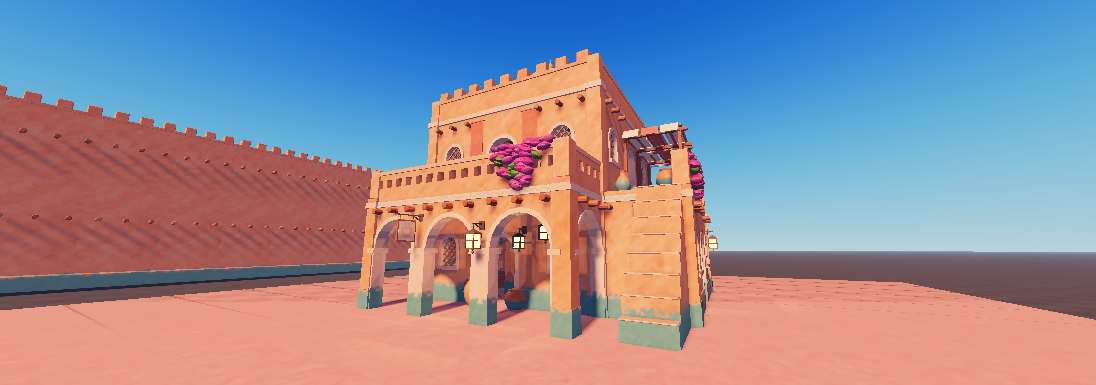
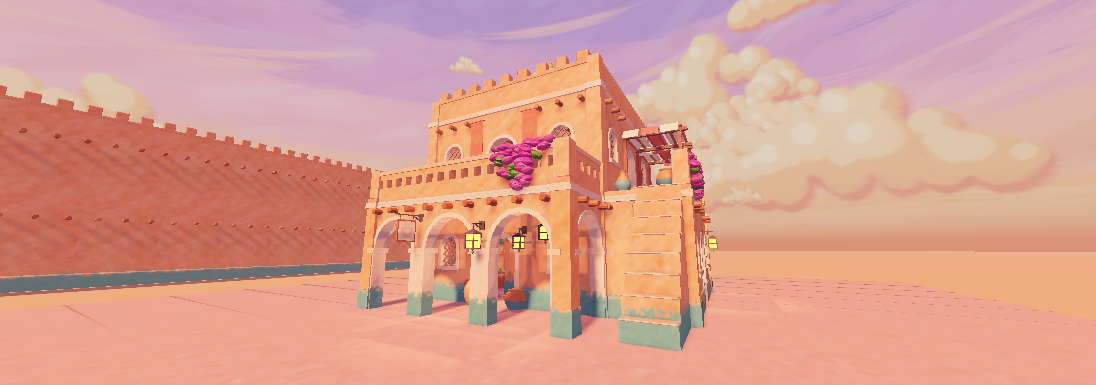
Painted sky: the concept's violet sky with peach clouds, six seamless faces
One painting of the whole sphere (10,246 strokes), cut into the sky box. Roblox's face
orientations were found with labelled test faces and are recorded in assets/sky.py.

diff --git a/desert-fps/assets/sky.py b/desert-fps/assets/sky.py
@@ -26,14 +26,15 @@ PPD = H / 180.0                # pixels per degree
 SEED = 23
 
 # Which way each face of Roblox's sky box looks, and where the right and top edges of its picture point.
-# Worked out with `python sky.py test` in Studio; see build/08_sky.luau.
+# Found in Studio with `python sky.py test` (labelled faces, looked at along every axis): Roblox's "Rt" face
+# is on the -X side and "Lf" on +X, and the top and bottom faces lie a quarter turn from the usual layout.
 FACES = {
     "Ft": ((0, 0, -1), (1, 0, 0), (0, 1, 0)),
     "Bk": ((0, 0, 1), (-1, 0, 0), (0, 1, 0)),
-    "Rt": ((1, 0, 0), (0, 0, 1), (0, 1, 0)),
-    "Lf": ((-1, 0, 0), (0, 0, -1), (0, 1, 0)),
-    "Up": ((0, 1, 0), (1, 0, 0), (0, 0, 1)),
-    "Dn": ((0, -1, 0), (1, 0, 0), (0, 0, -1)),
+    "Rt": ((-1, 0, 0), (0, 0, -1), (0, 1, 0)),
+    "Lf": ((1, 0, 0), (0, 0, 1), (0, 1, 0)),
+    "Up": ((0, 1, 0), (0, 0, -1), (1, 0, 0)),
+    "Dn": ((0, -1, 0), (0, 0, -1), (-1, 0, 0)),
 }
 
 VIOLET, MAUVE, ROSE = (138, 129, 198), (176, 146, 206), (214, 158, 200)

diff --git a/desert-fps/HANDOFF.md b/desert-fps/HANDOFF.md
@@ -257,9 +257,11 @@ Direction, confirmed by the owner ("Yes, pilot building"): rebuild as one compac
 - **Lamps and low graphics.** The playtest client here runs on automatic (low) graphics, where lamps cast no shadows and shine through walls: at the first brightness the rooms washed out to white. Lamp range is set for that case (`BuildingConfig.luau`): a lamp lights its own cell and little more.
 - **Indoor light (the owner: "something seems off... mainly interior lighting").** The rooms were purple and flat. Cause: Roblox's shade light leaks through walls and roofs one stud thick, so a room takes `Lighting.OutdoorAmbient` (violet), hardly `Lighting.Ambient`. Tested by setting OutdoorAmbient to orange: every room turned orange. Fix: the lamps do the warming (warmer and stronger, golden glass, four more lanterns in the atrium and a soft fill light under the dome), and OutdoorAmbient is a rosier violet. Target was the owner's interior concept, `reference/zones/tea-house.webp`: golden-pink rooms. Before and after: `assets/studio/teahouse-gallery-light-before-after.png`.
 - **Light outside.** `build/03_lighting.luau` now also turns the bare ground to sand (it was the template's dark checkerboard), sets a peach-to-violet haze, switches the depth-of-field blur off and keeps bloom low enough that lamps do not throw a star off the rifle.
-- **The sky is painted but not in the game.** `assets/sky.py` paints the concept's violet sky with peach clouds stroke by stroke and cuts it into six box faces; `python sky.py test` makes labelled faces for finding out which way Roblox turns each one. Neither has been run to the end or uploaded: the owner stopped that work to have the indoor light fixed first. Studio still shows Roblox's blue sky.
+- **The sky is painted** (the owner said the indoor light was "much better", then this was finished). `assets/sky.py` paints the concept's violet sky with peach clouds stroke by stroke, 10,246 strokes on one flat picture of the whole sphere, and cuts it into six box faces; `build/08_sky.luau` sets them. Checked in Studio across the box edges from two opposite corners: no seams.
+- **How Roblox turns the sky box** (found with `python sky.py test`, six labelled faces looked at along every axis): `SkyboxFt` looks along -Z and `SkyboxBk` along +Z, both upright; `SkyboxRt` is on the **-X** side and `SkyboxLf` on **+X**; on `SkyboxUp` the picture's right edge points to -Z and its top edge to +X; on `SkyboxDn` the right edge points to -Z and the top edge to -X. The table is in `sky.py`.
+- Unused uploads from that test, safe to archive: images 107254333365792, 112165538698504, 113010172024457, 88017870290511, 108595521409435, 82504491675380.
 - **The building is turned to face the afternoon sun.** A front in its own shade reads as dark terracotta. This will matter when the town is laid out.
-- **Not done:** the sky (see above), no background, no sandstorm. What hangs on a wall (lantern, banner, shelf, sign) stays in the air when the wall behind it is shot down. Frame rate is still unmeasured (this Studio session runs at 14 frames a second regardless). No door leaves in the doorways, no palm trees, no awnings on this building. The owner has not seen it in person yet.
+- **Not done:** no painted background behind the wall (far towns, hills), no sandstorm. What hangs on a wall (lantern, banner, shelf, sign) stays in the air when the wall behind it is shot down. Frame rate is still unmeasured (this Studio session runs at 14 frames a second regardless). No door leaves in the doorways, no palm trees, no awnings on this building. The owner has not seen it in person yet.
 - The old town (`Workspace.Map`) is still there, untouched, until the owner says what to do with it.
 
 Notes for the next session:

diff --git a/desert-fps/build/README.md b/desert-fps/build/README.md
@@ -11,6 +11,7 @@ The place can be rebuilt from an empty baseplate by running these in order, in S
 | 5 | `05_kit_showcase.luau` | Stands the kit, two characters and the weapons outside the town wall in `Workspace.KitShowcase`. It is also a firing range |
 | 6 | `06_build_map.luau` | Builds the whole town out of kit pieces in `Workspace.Map`: nine districts, ring road, town wall (about 20,800 pieces, 7 seconds) |
 | 7 | `07_build_teahouse.luau` | Stands the pilot building, the tea house, on its own paved yard outside the south wall: `Workspace.Buildings.TeaHouse` (197 pieces). Players spawn in front of it |
+| 8 | `08_sky.luau` | Sets the painted sky (six faces cut from one painting by `assets/sky.py`) |
 
 `tests/time_market_routes.luau` runs on the server during a playtest. It walks bots along the planner's Market Square routes and writes the timings to the `RouteTiming` attribute on Workspace. `tests/time_all_routes.luau` does the same for every zone and writes a summary to `RouteSummary`.
 
